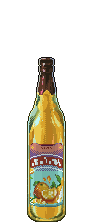
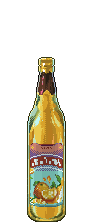
[#3] 병따기·따르기 미니게임에 개봉한 병 이미지 적용
- 따르기 화면에 개봉한 맥주·샴페인·레드와인 병 이미지 3종을 추가하고, 오렌지 주스의 개봉 이미지를 교체했다.
- 맥주·샴페인·레드와인을 따를 때 새 이미지의 병 입구에서 액체가 흘러나오도록 시작 위치를 병마다 맞췄다.
- 맥주 병따기에 성공하면 병뚜껑이 들리는 순간 개봉한 병으로 전환되도록 했다. 전환 전후에 병이 튀지 않도록 몸통과 바닥 위치를 맞췄다.
- 새 병 이미지 3종을 미리 불러오도록 등록하고, 시뮬레이터의 ‘리소스 확인’에서 개봉한 맥주병이 병따기 성공 화면과 따르기 화면에 함께 쓰인다는 점을 표시했다.

Changed region(s): [[0.4086, 0.2422, 0.6022, 0.3498], [0.3656, 0.861, 0.3871, 0.8879]]

diff --git a/bar-playtest/src/features/crafting/open-view.js b/bar-playtest/src/features/crafting/open-view.js
@@ -31,7 +31,7 @@ window.LunaOpenView=function({g,D,L,esc,button,ui}){
   v.source.onended=()=>{v.source.disconnect();v.tone.disconnect();v.gain.disconnect();if(voice===v)voice=null;};
   v.source.start();playFizz();
  }
- function image(key){if(!images.has(key)){const i=new Image();i.src=D.assets[key]?.src||D.assets.item_dummy.src;images.set(key,i);}return images.get(key);}
+ function image(src){if(!images.has(src)){const i=new Image();i.src=src;images.set(src,i);}return images.get(src);}
  function unlockAudio(){if(ui.gimmickAudio===false)return;try{audio??=new(window.AudioContext||window.webkitAudioContext)();if(audio.state==='suspended')audio.resume().catch(()=>{});prepare();prepareFizz();}catch{}}
  function sound(ok,perfect){
   if(ui.gimmickAudio===false||!audio||audio.state!=='running')return;
@@ -94,18 +94,24 @@ window.LunaOpenView=function({g,D,L,esc,button,ui}){
   LunaPixelRaster.fit(ctx,1280,720);ctx.clearRect(0,0,1280,720);
   // The supplied room is a full-screen layer, independent of cap animation.
   const halo=ctx.createRadialGradient(640,310,25,640,310,450);halo.addColorStop(0,ok?'#124e4740':'#19364926');halo.addColorStop(1,'#080e1700');ctx.fillStyle=halo;ctx.fillRect(0,0,1280,720);
-  const bottle=image('item_'+s.ingredient),scale=4.2,cx=640,cy=310;
+  const bottle=image(D.assets['item_'+s.ingredient]?.src||D.assets.item_dummy.src),scale=4.2,cx=640,cy=310;
+  const openBeer=s.ingredient==='beer'?window.LunaPour.CONTAINERS.beer:null;
+  const opened=openBeer&&image(openBeer.src);
   const kick=reduced.matches?0:ok&&t<.24?Math.sin(t*42)*Math.exp(-t*18)*6:miss?Math.sin(t*48)*Math.exp(-t*10)*5:0;
   ctx.save();ctx.translate(cx+kick,cy);ctx.imageSmoothingEnabled=false;if(s.openPhase==='broken')ctx.globalAlpha=.2;
   if(bottle.complete&&bottle.naturalWidth){
    // beer.png: cap x33..54, y66..72. Body retains the native alpha and neck.
-   LunaPixelRaster.draw(ctx,bottle,22,72,43,150,-21*scale,3*scale,43*scale,150*scale);
+   if(ok&&opened?.naturalWidth){
+    // Both exports have the same base line. Align the left body edge as the cap lifts.
+    const [left,top,right,bottom]=openBeer.box,w=right-left,h=bottom-top;
+    LunaPixelRaster.draw(ctx,opened,left,top,w,h,-21*scale,(top-69)*scale,w*scale,h*scale);
+   }else LunaPixelRaster.draw(ctx,bottle,22,72,43,150,-21*scale,3*scale,43*scale,150*scale);
    if(ok&&s.ingredient==='beer'){
     ctx.save();ctx.scale(scale,scale);
     canvas.dataset.carbonation=String(window.LunaOpenCarbonation.draw(ctx,t,reduced.matches));
     ctx.restore();
    }
-   if(ok){ctx.fillStyle='#38291c';ctx.beginPath();ctx.ellipse(0,3*scale,8*scale,1.5*scale,0,0,Math.PI*2);ctx.fill();ctx.strokeStyle='#af9669';ctx.lineWidth=2;ctx.stroke();}
+   if(ok&&!opened?.naturalWidth){ctx.fillStyle='#38291c';ctx.beginPath();ctx.ellipse(0,3*scale,8*scale,1.5*scale,0,0,Math.PI*2);ctx.fill();ctx.strokeStyle='#af9669';ctx.lineWidth=2;ctx.stroke();}
    ctx.save();
    if(ok){const launch=fx.perfect?1.2:1;ctx.translate(260*t*launch,-690*t*launch+300*t*t);ctx.rotate(-12*t*launch);ctx.globalAlpha=Math.max(0,1-(t-.65)*2);}
    else if(miss){const decay=Math.exp(-t*9);ctx.translate(-10*Math.sin(t*36)*decay,4*decay);ctx.rotate((fx.offset<0?1:-1)*.24*Math.sin(t*28)*decay);ctx.transform(1,0,.25*decay,1-.22*decay,0,0);}
@@ -114,7 +120,7 @@ window.LunaOpenView=function({g,D,L,esc,button,ui}){
   ctx.restore();
   if(ok&&fx.perfect&&t<.7){ctx.save();ctx.globalAlpha=Math.max(0,1-t/.7);ctx.strokeStyle='#ffe5a0';ctx.lineWidth=2;const r=reduced.matches?70:48+t*160;ctx.beginPath();ctx.arc(cx,cy,r,0,Math.PI*2);ctx.stroke();if(!reduced.matches)for(let i=0;i<8;i++){const a=i*Math.PI/4,d=50+t*220,x=cx+Math.cos(a)*d,y=cy+Math.sin(a)*d;ctx.beginPath();ctx.moveTo(x-5,y);ctx.lineTo(x+5,y);ctx.moveTo(x,y-5);ctx.lineTo(x,y+5);ctx.stroke();}ctx.restore();}
   // Opener lever reacts only to a hit; a miss slips back instead of detaching the cap.
-  const tool=image('item_opener'),strike=fx&&t<.45;
+  const tool=image(D.assets.item_opener?.src||D.assets.item_dummy.src),strike=fx&&t<.45;
   if(tool.complete&&tool.naturalWidth){ctx.save();ctx.translate(cx+48+(strike?Math.sin(t*15)*35:35),cy+36+(strike?Math.sin(t*15)*20:35));ctx.rotate(-.9+(strike?(ok?-1:1)*Math.sin(t*13)*.6:0));ctx.globalAlpha=ok?Math.max(0,1-t*3):.85;ctx.imageSmoothingEnabled=false;LunaPixelRaster.draw(ctx,tool,13,63,45,44,-25,-15,135,132);ctx.restore();}
   if(!window.LunaCaptureMode?.hidden&&!ok&&s.openPhase==='rhythm'){
    const target=g.c('open_target_radius_px',44),start=g.c('open_start_radius_px',165),radius=Math.max(12,start-(start-target)*s.beatTime/1.1);

diff --git a/bar-playtest/index.html b/bar-playtest/index.html
@@ -103,7 +103,7 @@
 </script>
 <script src="src/features/bar/cocktail-art.js?v=20261018">
 </script>
-<script src="src/features/crafting/pour-fluid.js?v=open-bottles-1">
+<script src="src/features/crafting/pour-fluid.js?v=open-bottles-2">
 </script>
 <script src="src/shared/ui/story-notices.js?v=notice-scale-20261109">
 </script>
@@ -157,12 +157,12 @@
 </script>
 <script src="src/features/crafting/pour-liquid-renderer.js?v=pour-display-pixels-1">
 </script>
-<script src="src/features/crafting/pour-view.js?v=pour-display-pixels-1">
+<script src="src/features/crafting/pour-view.js?v=open-bottles-2">
 </script>
 <script src="src/features/crafting/open-carbonation.js?v=20261018">
 </script>
 <script src="src/shared/platform/pixel-raster.js"></script>
-<script src="src/features/crafting/open-view.js?v=display-grid-1">
+<script src="src/features/crafting/open-view.js?v=open-bottles-2">
 </script>
 <script src="src/features/crafting/shake-polish.js?v=mix-no-combo-20261018">
 </script>

diff --git a/bar-playtest/src/features/crafting/pour-fluid.js b/bar-playtest/src/features/crafting/pour-fluid.js
@@ -64,11 +64,9 @@ const CONTAINERS=Object.freeze({
  tequila:openArt('tequila',[10,24,47,170],28.5,25),
  triple_sec:openArt('triple_sec',[0,29,57,170],28.5,30),
  wild_dog:openArt('wild_dog',[8,27,49,170],28.5,28),
- // These three have no authored off variant. Use just the exposed neck/body from
- // the original image and draw a glass lip in its palette at the cut.
- beer:{box:[22,77,65,222],mouthX:43.5,mouthY:77,rim:[16,'#a6916b','#39271d']},
- red_wine:{box:[23,49,70,222],mouthX:46.5,mouthY:49,rim:[17,'#847079','#301c27']},
- champagne:{box:[20,46,73,222],mouthX:46.5,mouthY:46,rim:[18,'#b3a269','#44371f']}
+ beer:openArt('bottled_beer',[25,65,68,222],46.5,68),
+ red_wine:openArt('wine',[23,35,70,222],46.5,38),
+ champagne:openArt('champagne',[20,29,73,222],46.5,32)
 });
 function containerLayout(id){
  const art=CONTAINERS[id];if(!art)return null;

diff --git a/bar-playtest/src/features/crafting/pour-view.js b/bar-playtest/src/features/crafting/pour-view.js
@@ -182,11 +182,6 @@ root.LunaPourView=function({g,D,L,esc,button,ui}){
   const brush=body.getContext('2d');
   brush.setTransform(pitch,0,0,pitch,0,headroom*pitch);brush.imageSmoothingEnabled=false;
   brush.drawImage(img,left,top,width,height,left,top,width,height);
-  if(art.rim){
-   const [rimWidth,glass,inside]=art.rim;
-   brush.fillStyle=glass;brush.beginPath();brush.ellipse(mouthX,mouthY,rimWidth/2,2.3,0,0,2*Math.PI);brush.fill();
-   brush.fillStyle=inside;brush.beginPath();brush.ellipse(mouthX,mouthY-.3,rimWidth/2-2,1.2,0,0,2*Math.PI);brush.fill();
-  }
   let cap;
   if(installed){
    const h=spout.seatY+1,w=pourer.naturalWidth;

diff --git a/bar-playtest/src/dev/resources/resource-artwork.js b/bar-playtest/src/dev/resources/resource-artwork.js
@@ -13,7 +13,7 @@ function collect(rows,F){
  const A=F.barData.assets;
  for(const [id,art] of Object.entries(F.LunaPour.CONTAINERS)){
   if(art.src)add('pour-open-'+id,'따르기 · 개봉한 '+F.barGame.name(id),'bar-items',art,{
-   itemKind:'ingredient',usage:'따르기 전용 개봉 원본',launch:{type:'mini',id:'pour',ingredient:id}
+   itemKind:'ingredient',usage:id==='beer'?'병따기 성공 · 따르기 개봉 원본':'따르기 전용 개봉 원본',launch:{type:'mini',id:'pour',ingredient:id}
   });
  }
  add('pour-spout','따르기 · 푸어러','bar-items',F.LunaPour.POURER_ART,{

diff --git a/bar-playtest/resource-review.html b/bar-playtest/resource-review.html
@@ -160,7 +160,7 @@
 </script>
 <script src="src/dev/resources/resource-extraction.js?v=notice-scale-20261109">
 </script>
-<script src="src/dev/resources/resource-artwork.js?v=pour-open-1">
+<script src="src/dev/resources/resource-artwork.js?v=open-bottles-2">
 </script>
 <script src="src/dev/resources/resource-review.js?v=pour-open-1">
 </script>
